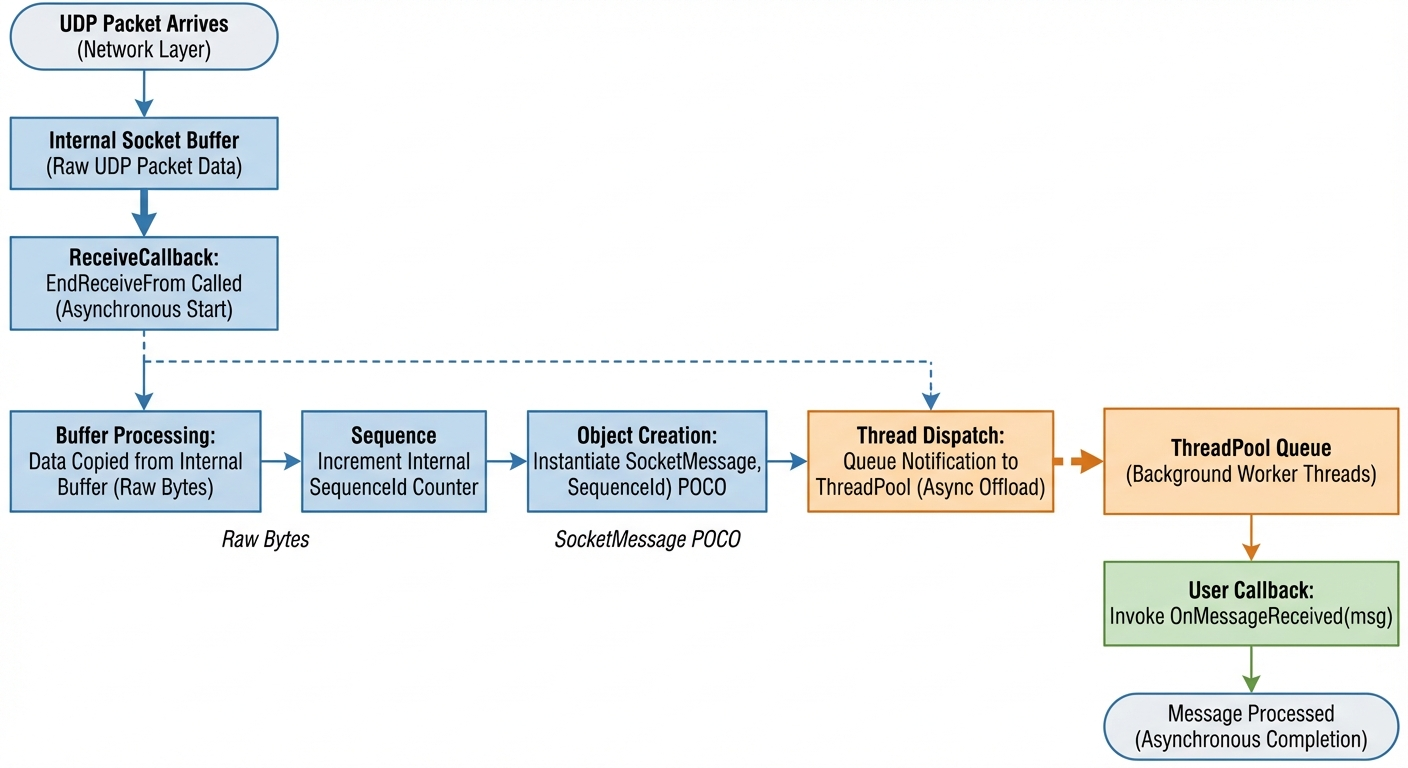
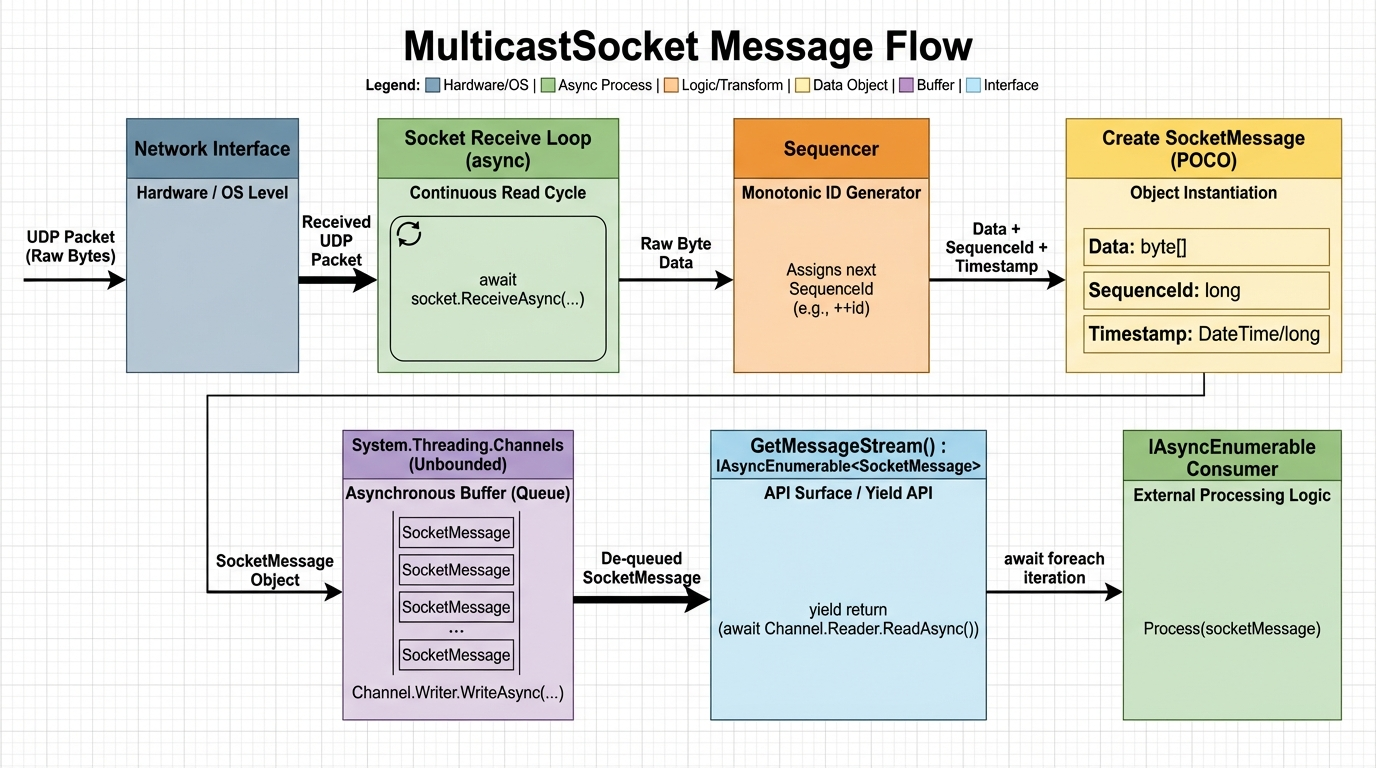
Update documentation and system diagrams to reflect recent architecture changes
- Synchronized root and project-level README.md and GEMINI.md files with the current implementation.
- Updated documentation to reflect the move to attribute-based message IDs ([MessageType]).
- Documented the transition to async stream-based message handling (IAsyncEnumerable).
- Refreshed system architecture, flow, and class diagrams to match the modernized reactive design.
- Aligned dependency versions and modernization status in documentation.

diff --git a/MulticastTransportFramework/README.md b/MulticastTransportFramework/README.md
@@ -22,7 +22,18 @@ The **MulticastTransportFramework** abstracts raw socket communication into a st
 
 ## Usage
 
-### 1. Configure and Build
+### 1. Define your Messages
+Decorate your message POCOs with the `[MessageType]` attribute to define their transport ID.
+
+```csharp
+[MessageType("sensor.data")]
+public class SensorData
+{
+    public double Value { get; set; }
+}
+```
+
+### 2. Configure and Build
 Use the `TransportBuilder` to set up your network options, logging, and message handlers.
 
 ```csharp
@@ -32,8 +43,8 @@ var transport = new TransportBuilder()
     .WithMulticastOptions(options)
     .WithLogging(loggerFactory)
     .WithLocalSource("MyDevice")
-    .WithAutoSendAcks(true) // Optional: automate acknowledgements
-    .RegisterHandler<MyData>(id: 101, (data, context) => 
+    .WithAutoSendAcks(true)
+    .RegisterHandler<SensorData>((data, context) => 
     {
         Console.WriteLine($"Received: {data.Value} from {context.Source.ResourceName}");
     })
@@ -50,24 +61,24 @@ options.EnforceOrdering = true;
 
 When enabled, the internal **GateKeeper** uses a buffering strategy and a recovery timeout (defaulting to 500ms) to handle out-of-order arrivals and sequence gaps.
 
-### 2. Sending Messages
-Send any object directly. The framework handles the envelope and ID mapping.
+### 3. Sending Messages
+Send any object directly. The framework handles the envelope and ID mapping via the attributes.
 
 ```csharp
 // Simple send
-await transport.SendAsync(new MyData { Value = "Hello" });
+await transport.SendAsync(new SensorData { Value = 25.5 });
 
 // Send with options (e.g., request acknowledgement)
-var session = await transport.SendAsync(new MyData { Value = "Ping" }, new SendOptions { RequestAck = true });
+var session = await transport.SendAsync(new SensorData { Value = 25.5 }, new SendOptions { RequestAck = true });
 
 session.OnAckReceived += (s, source) => Console.WriteLine($"Ack from {source.ResourceName}");
 ```
 
-### 3. Manual Acknowledgements
+### 4. Manual Acknowledgements
 If `AutoSendAcks` is disabled (the default), you can manually acknowledge messages using the `MessageContext`.
 
 ```csharp
-transport.RegisterHandler<MyData>(101, async (data, context) => 
+transport.RegisterHandler<SensorData>(async (data, context) => 
 {
     if (context.RequestAck)
     {
@@ -79,7 +90,7 @@ transport.RegisterHandler<MyData>(101, async (data, context) =>
 ## Key Concepts
 
 ### TransportBuilder
-The entry point for the framework. It manages the assembly of the `TransportComponent` and hides internal bookkeeping like JSON converter registration.
+The entry point for the framework. It manages the assembly of the `TransportComponent` and handles JSON converter registration.
 
 ### MessageContext
 A lightweight object passed to handlers that contains metadata about the message:
@@ -87,6 +98,9 @@ A lightweight object passed to handlers that contains metadata about the message
 - `Source`: Information about the sender.
 - `Timestamp`: When the message was sent.
 - `RequestAck`: Whether the sender expects a confirmation.
+
+### Async Processing
+The framework uses `IAsyncEnumerable` to process messages as a stream from the underlying `MulticastSocket`. This ensures that message processing is non-blocking and highly efficient.
 
 ### Ordered Messaging (GateKeeper)
 UDP multicast does not guarantee packet order. The framework ensures that messages are dispatched to handlers in the exact order they were assigned by the socket layer. The internal **GateKeeper** uses a buffering strategy and a recovery timeout (defaulting to 500ms) to handle out-of-order arrivals and sequence gaps, ensuring robustness against packet loss while maintaining state consistency.

diff --git a/README.md b/README.md
@@ -17,14 +17,16 @@ The top layer implements the **Monitor-Service-Entity (MSE)** pattern.
 
 ### 2. MulticastTransportFramework
 The middle layer provides a structured messaging protocol over UDP multicast.
-- **TransportComponent**: The central orchestrator (Singleton).
-- **Serialization**: Automated JSON serialization/deserialization with polymorphic support.
+- **TransportComponent**: The central orchestrator.
+- **Serialization**: Automated JSON serialization/deserialization with polymorphic support using `[MessageType("id")]` attributes.
+- **Reactive Processing**: Uses `IAsyncEnumerable` streams for efficient, non-blocking message handling.
 - **Ordering (GateKeeper)**: Ensures messages are processed in the exact order they were received, even in asynchronous environments.
 - **Reliability (Ack)**: Optional acknowledgement-based sessions for reliable message delivery.
 - **Diagnostics**: Built-in tools for network sanity and firewall checks.
 
 ### 3. MulticastSocket
 The foundational layer that wraps standard .NET UDP sockets.
+- **Reactive Streams**: Provides `GetMessageStream()` which returns an `IAsyncEnumerable<SocketMessage>`.
 - **Group Management**: Simplified joining and leaving of multicast groups.
 - **Sequencing**: Automatically assigns sequence numbers to incoming packets for higher-level ordering.
 - **Performance**: Optimized async I/O and buffer management.
@@ -35,16 +37,18 @@ The foundational layer that wraps standard .NET UDP sockets.
 *   [**ContextAwarenessFramework**](ContextAwarenessFramework/README.md): Framework for context sensing and data management.
 
 ## Core Flow
-1.  **Network Receive**: `MulticastSocket` receives bytes and assigns a sequence ID.
-2.  **Transport Processing**: `TransportComponent` deserializes the JSON into a typed `TransportMessage`.
-3.  **Ordered Dispatch**: The `GateKeeper` holds the message until its sequence ID is next, then dispatches it to registered handlers.
-4.  **Context Update**: A `ContextService` (acting as a listener) receives the message and updates its `IEntity` state.
-5.  **UI Notification**: The `ContextService` uses a captured `Dispatcher` to safely notify UI components of the change.
+1.  **Network Receive**: `MulticastSocket` receives bytes, assigns a sequence ID, and pushes to an internal `Channel`.
+2.  **Stream Consumption**: `TransportComponent` consumes the `IAsyncEnumerable` stream from the socket.
+3.  **Transport Processing**: The JSON is deserialized into a typed `TransportMessage` based on its attribute-defined ID.
+4.  **Ordered Dispatch**: The `GateKeeper` holds the message until its sequence ID is next, then dispatches it to registered handlers.
+5.  **Context Update**: A `ContextService` (acting as a listener) receives the message and updates its `IEntity` state.
+6.  **UI Notification**: The `ContextService` uses a captured `Dispatcher` to safely notify UI components of the change.
 
 ## Modernization Status
-This project targets **.NET Standard 2.0** for core libraries (for broad compatibility) and **.NET 8.0** for applications and tests.
-- **Serialization**: `Newtonsoft.Json`.
-- **Logging**: `Microsoft.Extensions.Logging`.
+This project targets **.NET Standard 2.0** for core libraries and **.NET 8.0** for applications and tests.
+- **Asynchronous**: Fully utilizes `IAsyncEnumerable`, `Channels`, and `Task`-based patterns.
+- **Serialization**: `Newtonsoft.Json` with custom polymorphic converters.
+- **Logging**: `Microsoft.Extensions.Logging` (Version 8.0.0).
 - **Dependencies**: Managed via NuGet.
 
 ## How to Run

diff --git a/MulticastTransportFramework/GEMINI.md b/MulticastTransportFramework/GEMINI.md
@@ -4,21 +4,20 @@
 **MulticastTransportFramework** implements a higher-level messaging protocol over UDP multicast.
 
 *   **Fluent Builder**: Use `TransportBuilder` to configure and create a `TransportComponent`.
-*   **Strongly-Typed Messaging**: Generic `Send<T>` (synchronous) and `SendAsync<T>` (modern Task-based) methods handle internal serialization and routing.
+*   **Strongly-Typed Messaging**: Generic `SendAsync<T>` methods handle internal serialization and routing via `[MessageType("id")]` attributes.
 *   **POCO Support**: Any class can be used as message content; no marker interface is required.
-*   **Serialization**: Uses `Newtonsoft.Json` to convert between .NET objects and JSON strings.
-*   **Diagnostic Transparency**: Uses `Microsoft.Extensions.Logging.ILogger` across both the transport and socket layers, providing end-to-end visibility into the communication lifecycle.
-*   **Message Routing**: Dispatches messages to strongly-typed handlers or legacy `ITransportListener`s based on their `MessageType` integer ID.
+*   **Serialization**: Uses `Newtonsoft.Json` with a custom `TransportMessageConverter` for polymorphic deserialization.
+*   **Diagnostic Transparency**: Uses `Microsoft.Extensions.Logging.ILogger` across both the transport and socket layers.
+*   **Message Routing**: Dispatches messages to strongly-typed handlers based on their string ID defined in the `MessageTypeAttribute`.
 
 ## Core Logic
-1.  **Incoming Data**: `MulticastSocket` receives bytes.
-2.  **Conversion**: Bytes are converted to a UTF-8 string.
-3.  **Deserialization**: `Newtonsoft.Json` deserializes the string into a `TransportMessage` "envelope" object.
-    *   **Polymorphism**: The internal `TransportMessageConverter` handles the concrete type of the `MessageData` property based on the registered ID.
-4.  **GateKeeper**: Optional mechanism (controlled by `EnforceOrdering` in options) that ensures sequential processing of messages, preserving the order assigned by the socket layer. It employs a buffering strategy for out-of-order messages and a recovery timeout (`GateKeeperTimeout`) to automatically advance the sequence if a message is lost, preventing deadlocks.
+1.  **Incoming Data**: `MulticastSocket` receives bytes and pushes them into an internal `Channel`.
+2.  **Consumption**: `TransportComponent` consumes messages from the socket's `IAsyncEnumerable<SocketMessage>` stream.
+3.  **Deserialization**: `Newtonsoft.Json` deserializes the UTF-8 string into a `TransportMessage` envelope.
+    *   **Polymorphism**: The `TransportMessageConverter` resolves the concrete type of `MessageData` using the registered string ID.
+4.  **GateKeeper**: Optional mechanism (controlled by `EnforceOrdering` in options) that ensures sequential processing of messages, preserving the order assigned by the socket layer.
 5.  **Dispatch**:
     *   Strongly-typed handlers receive the data POCO and a `MessageContext`.
-    *   Legacy `ITransportListener`s receive the full `TransportMessage`.
     *   **Auto-Ack**: If enabled, an acknowledgement is sent automatically if requested.
 
 ## Key Classes

diff --git a/MulticastSocket/README.md b/MulticastSocket/README.md
@@ -12,28 +12,43 @@ The **MulticastSocket** library provides a clean, asynchronous interface for joi
 ![MulticastSocket Message Flow](assets/message_flow_diagram.png)
 
 ## Features
-- **Fluent Builder API**:guided setup for network options and callbacks.
-- **Strongly-Typed Callbacks**: Clean `Action` based events for messages, errors, and status.
+- **Fluent Builder API**: guided setup for network options and callbacks.
+- **Reactive Streams**: Provides `GetMessageStream()` for modern, non-blocking message processing via `IAsyncEnumerable`.
+- **Strongly-Typed Callbacks**: Legacy `Action` based events for messages, errors, and status.
 - **Ordered Metadata**: Every message carries a `SequenceId` and `Timestamp`.
 - **Cross-Platform**: Handles platform-specific socket options automatically.
-- **Asynchronous I/O**: High-performance, non-blocking receive and send loops.
 
 ## Usage
 
-### Initialization & Receiving
-Use the `MulticastSocketBuilder` to configure your connection and register handlers.
+### Initialization & Receiving (Async Stream)
+The recommended way to receive messages is via the `GetMessageStream` method.
 
 ```csharp
 using Ubicomp.Utils.NET.Sockets;
 
 var socket = new MulticastSocketBuilder()
     .WithLocalNetwork(port: 5000)
+    .Build();
+
+socket.StartReceiving();
+
+// Consume messages as an async stream
+await foreach (var msg in socket.GetMessageStream(cts.Token))
+{
+    Console.WriteLine($"Received {msg.Data.Length} bytes. Seq: {msg.SequenceId}");
+}
+```
+
+### Initialization & Receiving (Callbacks)
+You can also use the legacy callback-based approach.
+
+```csharp
+var socket = new MulticastSocketBuilder()
+    .WithLocalNetwork(port: 5000)
     .OnMessageReceived(msg => 
     {
         Console.WriteLine($"Received {msg.Data.Length} bytes. Seq: {msg.SequenceId}");
     })
-    .OnError(err => Console.Error.WriteLine($"Socket Error: {err.Message}"))
-    .OnStarted(() => Console.WriteLine("Socket listening..."))
     .Build();
 
 socket.StartReceiving();

diff --git a/GEMINI.md b/GEMINI.md
@@ -24,7 +24,8 @@ The solution is structured into several key projects:
 *   **`Tests`**: Unit tests for the solution (likely using MSTest, NUnit, or xUnit - check `Ubicomp.Utils.NET.Tests.csproj`).
 
 ### External Dependencies
-*   All dependencies are managed via NuGet. The legacy `Libs/` folder has been removed.
+*   All dependencies are managed via NuGet. The project is aligned with **.NET 8.0** standards (using version `8.0.0` for Microsoft extensions).
+*   Key libraries: `Microsoft.Extensions.Logging`, `System.Threading.Channels`, `Microsoft.Bcl.AsyncInterfaces`, `Newtonsoft.Json`.
 
 ## Development Workflow
 
@@ -59,9 +60,10 @@ All commands should be run from the repository root.
     ```
 
 ## Development Conventions
-*   **Project Format:** Modern SDK-style `.csproj` files are used.
-*   **Dependencies:** External libraries in the `Libs` folder are referenced via `<Reference>` tags with `<HintPath>`. When adding new dependencies, prefer NuGet packages if possible, but maintain existing patterns for local DLLs.
-*   **Versioning:** Check `Properties/AssemblyInfo.cs` in each project for version information if strictly required, though SDK-style projects often move this to the `.csproj`.
+*   **Async/Await**: Prefer asynchronous patterns. The networking layer uses `IAsyncEnumerable` and `Channels`.
+*   **Messaging**: Use `[MessageType("id")]` attributes on POCOs for transport routing.
+*   **Project Format**: Modern SDK-style `.csproj` files are used.
+*   **Dependencies**: Prefer NuGet packages. Maintain `netstandard2.0` compatibility for core libraries.
 
 ## Important Files
 *   `Ubicomp.Utils.NET.sln`: The main solution file.
